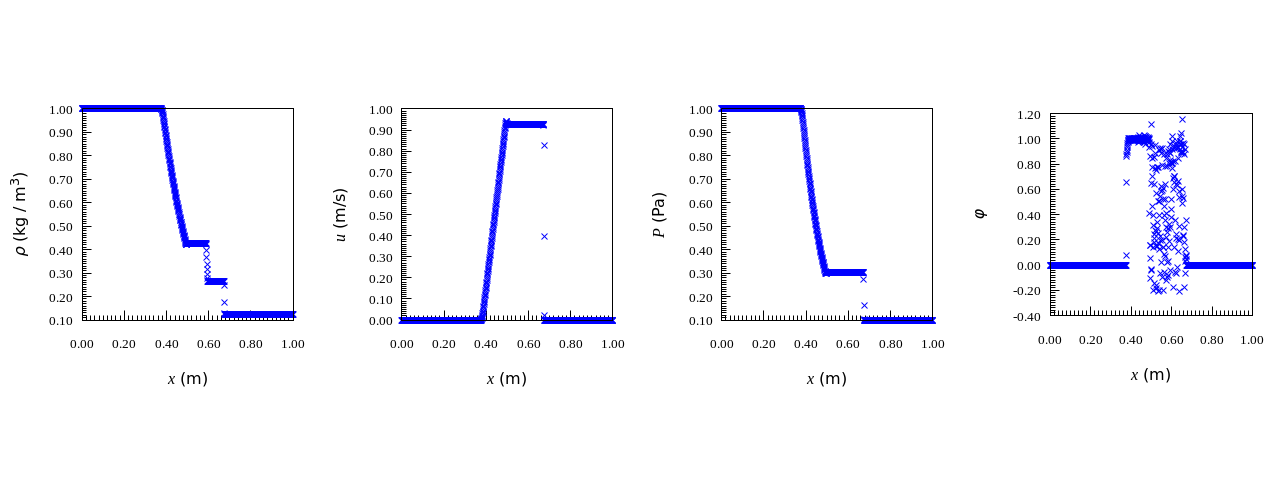
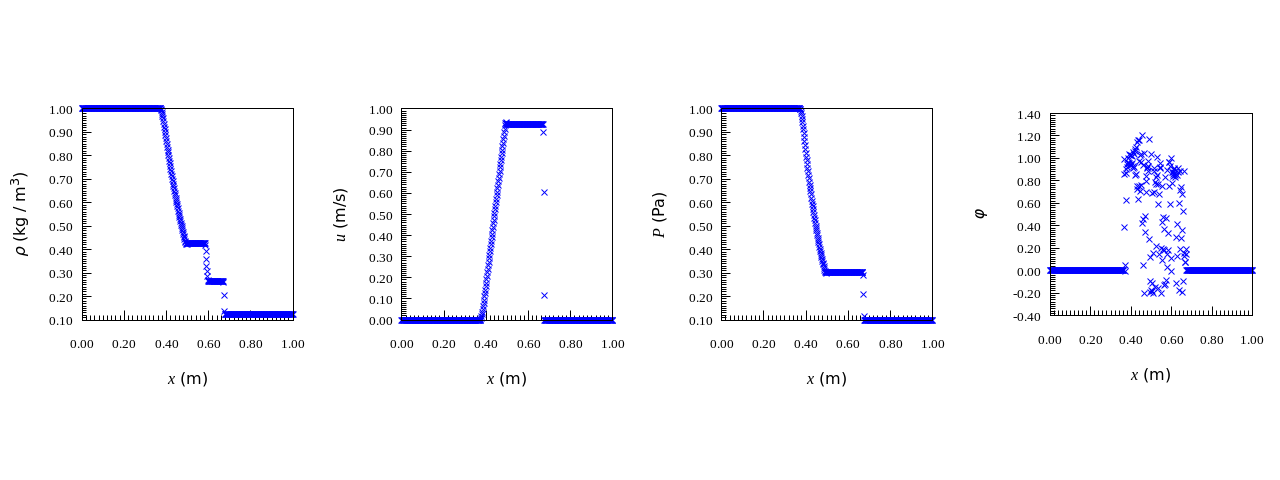
correct E

diff --git a/README.md b/README.md
@@ -61,6 +61,8 @@ Christian T. Jacobs, Satya P. Jammy, Neil D. Sandham, OpenSBLI: A framework for 
 <li><a href="https://arc.aiaa.org/doi/abs/10.2514/6.2009-3797">
 Yves Allaneau, Antony Jameson, Direct Numerical Simulations of a Two-Dimensional Viscous Flow in a Shocktube Using Kinetic Energy Preserving Scheme, 2012</a>
 </li>
+<li><a href="https://arc.aiaa.org/doi/10.2514/6.2023-0429">Yoshiharu Tamaki, Soshi Kawai, Wall-modeled LES of transonic buffet over NASA-CRM using Cartesian-grid-based flow solver FFVHC-ACE, 2023</a>
+</li>
 <li><a href="https://docs.nvidia.com/hpc-sdk/pgi-compilers/2017/pgi17cudaforug.pdf">
 CUDA FORTRAN PROGRAMMING GUIDE AND REFERENCE, 2017</a>
 </li>
